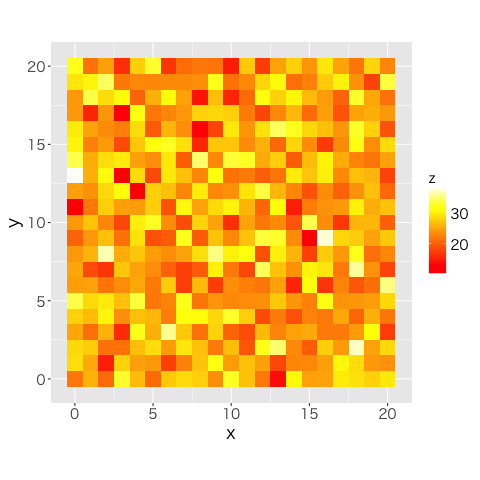
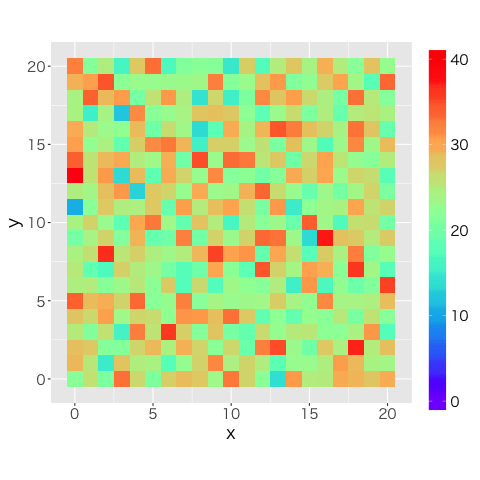
[Rgbformulae in GGPLOT2] Implement simple rgbformulae in R

diff --git a/20170826_gnuplot_rgbformula_ggplot2/readme.md b/20170826_gnuplot_rgbformula_ggplot2/readme.md
@@ -29,3 +29,6 @@ $ gnuplot -e "show palette rgbformulae"
 	  * negative numbers mean inverted=negative colour component
 	  * thus the ranges in `set pm3d rgbformulae' are -36..36
 ```
+
+x = [0, 1]
+R/G/B = function(x) * 255
